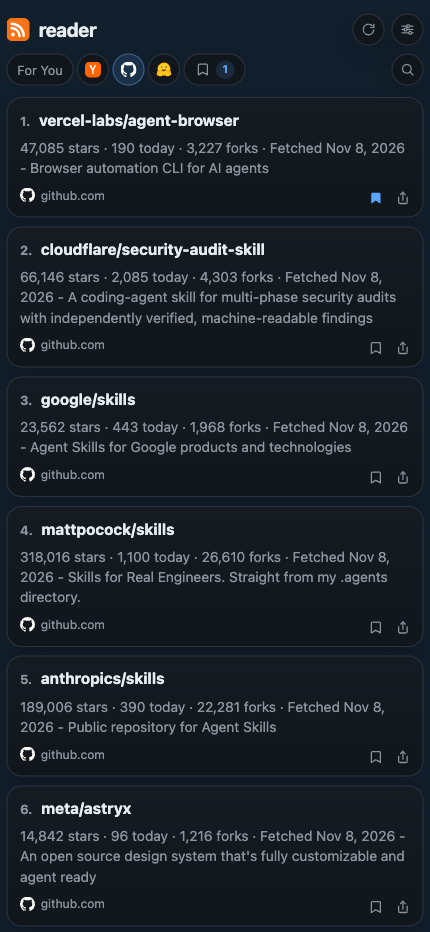
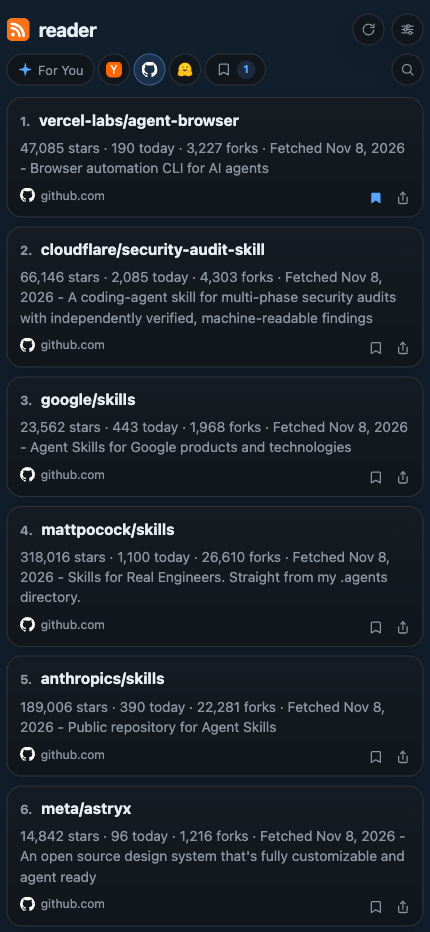
docs: refresh app screenshots
Update README and manifest screenshots for the current UI and bump screenshot/manifest cache versions.\n\nCo-Authored-By: Claude Code <noreply@anthropic.com>

Changed region(s): [[0.0302, 0.0311, 0.5744, 0.0933]]

diff --git a/core/render.ts b/core/render.ts
@@ -150,7 +150,7 @@ export function renderIndexPage(data: PageData): string {
     <meta name="apple-mobile-web-app-capable" content="yes" />
     <meta name="apple-mobile-web-app-status-bar-style" content="default" />
     <meta name="apple-mobile-web-app-title" content="reader" />
-    <link rel="manifest" href="/site.webmanifest?v=14" />
+    <link rel="manifest" href="/site.webmanifest?v=15" />
     <link rel="icon" href="/favicon.svg?v=8" sizes="any" type="image/svg+xml" />
     <link rel="shortcut icon" href="/favicon.svg?v=8" type="image/svg+xml" />
     <link rel="apple-touch-icon" href="/apple-touch-icon.png?v=8" />
@@ -444,9 +444,9 @@ export function renderIndexPage(data: PageData): string {
             </svg>
           </button>
         </div>
-        <img class="install-dialog-screenshot" data-install-screenshot-mobile src="/manifest-assets/screenshot-mobile.png?v=4" alt="reader running as an installed app on mobile" width="430" height="932" loading="lazy" />
-        <img class="install-dialog-screenshot install-dialog-screenshot-tablet is-hidden" data-install-screenshot-tablet src="/manifest-assets/screenshot-tablet.png?v=3" alt="reader running as an installed app on iPad" width="820" height="1180" loading="lazy" />
-        <img class="install-dialog-screenshot install-dialog-screenshot-desktop is-hidden" data-install-screenshot-desktop src="/manifest-assets/screenshot-wide.png?v=3" alt="reader running as an installed app on desktop" width="1440" height="1120" loading="lazy" />
+        <img class="install-dialog-screenshot" data-install-screenshot-mobile src="/manifest-assets/screenshot-mobile.png?v=5" alt="reader running as an installed app on mobile" width="430" height="932" loading="lazy" />
+        <img class="install-dialog-screenshot install-dialog-screenshot-tablet is-hidden" data-install-screenshot-tablet src="/manifest-assets/screenshot-tablet.png?v=4" alt="reader running as an installed app on iPad" width="820" height="1180" loading="lazy" />
+        <img class="install-dialog-screenshot install-dialog-screenshot-desktop is-hidden" data-install-screenshot-desktop src="/manifest-assets/screenshot-wide.png?v=4" alt="reader running as an installed app on desktop" width="1440" height="1120" loading="lazy" />
         <p class="config-dialog-copy">Add reader to your home screen for a faster, full-screen experience with offline access to your last feed.</p>
         <ol class="install-steps is-hidden" data-install-steps>
           <li>

diff --git a/web-static/service-worker.js b/web-static/service-worker.js
@@ -1,4 +1,4 @@
-const SHELL_CACHE = "reader-shell-v76";
+const SHELL_CACHE = "reader-shell-v77";
 const ITEMS_CACHE = "reader-items-v24";
 const CORE_ASSETS = [
   "/",
@@ -8,7 +8,7 @@ const CORE_ASSETS = [
   "/static/source-icons/github.svg",
   "/static/source-icons/huggingface.svg",
   "/favicon.svg?v=8",
-  "/site.webmanifest?v=14",
+  "/site.webmanifest?v=15",
   "/apple-touch-icon.png?v=8",
   "/icon-192.png?v=8",
   "/icon-512.png?v=8",
